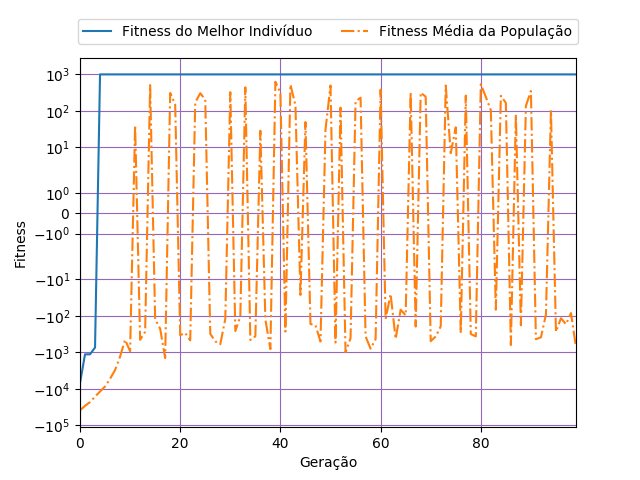
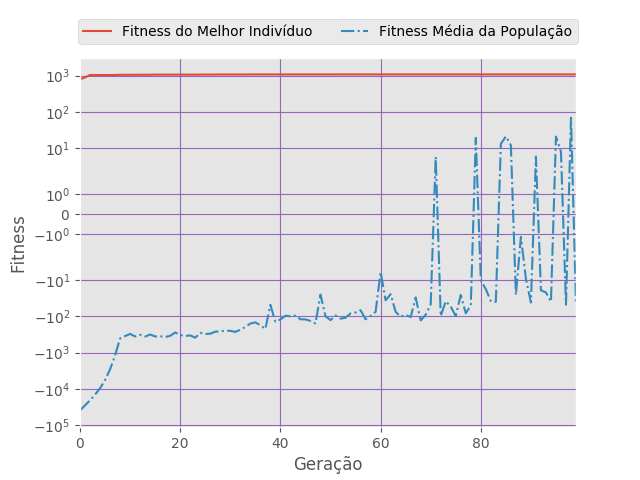
keras examples added

diff --git a/NeuralNets/ELM.py b/NeuralNets/ELM.py
@@ -3,10 +3,8 @@
 import matplotlib as mpl
 import matplotlib.pyplot as plt
 import numpy as np
-import sys
-from datasets import fish
-#função sigmoide
-sigmoid = lambda z:(np.exp(z) - np.exp(-1 * z)) / (np.exp(z) + np.exp(-1 * z))
+
+verbose = False
 erro = lambda y, d: 1/2 * sum([np.sum (i **2) for i in np.nditer(y - d)])
 
 def output(x, d, w1, w2=[]):
@@ -14,50 +12,73 @@ def output(x, d, w1, w2=[]):
 	sh[1] = sh[1] + 1
 	Xa = np.ones(sh)
 	Xa[:,:-1] = x
-	S = sigmoid(np.matmul(Xa, w1.transpose()))
+	#ativação sigmoidal
+	S = np.tanh(np.matmul(Xa, w1.transpose()))
 
 	sh = list(S.shape)
 	sh[1] = sh[1] + 1
 	Ha = np.ones(sh)
 	Ha[:,:-1] = S
 
+	#se os pesos de saída não forem fornecidos
+	#calculamos eles aqui
 	if(w2 == []):
-		w2 = np.matmul(np.matmul(np.linalg.inv(np.matmul(Ha.transpose(), Ha)), Ha.transpose()), d).transpose()
+		w2 = np.matmul(np.linalg.pinv(Ha), d).transpose()
 
+	#caso contrário, se faz propagação direta
 	Y = np.matmul(Ha, w2.transpose())
 
-	print (f'pesos da camada oculta: \n{w1}')
-	print (f'pesos da camada de saída: \n{w2}')
-	print (f'resposta da camada oculta:\n {S}')
-	print (f'resposta da camada de saída:\n {Y}')
-	print (f' O erro RMS da rede é {erro(Y, d)}\n\n')
-	return w2
+	if (verbose):
+		print (f'pesos da camada oculta: \n{w1}')
+		print (f'pesos da camada de saída: \n{w2}')
+		print (f'resposta da camada oculta:\n {S}')
+		print (f'resposta da camada de saída:\n {Y}')
+		print (f' O erro RMS da rede é {erro(Y, d)}\n\n')
+
+		plt.style.use("ggplot")
+		plt.figure()
+		plt.title(f"Sen(x), erro RMS = {erro(Y, d)}")
+		plt.plot(x, Y, "+", color="green", label="resposta da Rede")
+		plt.plot(x, d, "-.", color="red", label="Função Original")
+		plt.ylabel("Saída")
+		plt.xlabel("Entrada")
+		plt.legend()
+		plt.show()
+	return w2, Y
 
 def main():
-	'''
-	x_training = np.array(fish.alaska + fish.canada)
+	x = []
 	d = []
-	for i in fish.alaska:
-		d.append([1, 0])
-	for i in fish.canada:
-		d.append([0, 1])
-	d_training = np.array(d)
-	'''
-	x = [[0,0], [0,1],[1,0],[1,1]]
-	d = [[0,0], [1,0],[1,0],[1,1]]
-	x = np.array(x)
-	d = np.array(d)
-	P = 150
-	M = 2
-	C = 2
 
-	#w1 = np.matrix('0.53  0.86 -0.43;\
-	#			1.83  0.31  0.34;\
-	#			-2.25 -1.3  3.57')
-	w1 = np.random.rand(P,M+1)
+	linspace = np.arange(0, 10, 0.01)
 
+	for i in linspace:
+		x.append([i])
+		d.append([np.sin(i)])
+	
+	#O conjunto de testes 
+	testx = np.array(x[1::20])
+	testd = np.array(d[1::20])
 
-	w2 = output(x, d, w1)
+	#conjunto de treinamento
+	x = np.array(x[::30])
+	d = np.array(d[::30])
+
+	#número de neurônioa na camada oculta
+	P = 12000
+	M = 1
+	C = 1
+
+	#inicialiazação dos pesos
+	w1 = (np.random.rand(P,M+1) - 0.5) / 2
+
+	#obtenção dos pesos de saída
+	w2, response = output(x, d, w1)
+
+	#testes para valores não presentes no conjunto de treinamento
+	global verbose
+	verbose = True
+	output(testx, testd, w1, w2)
 
 if __name__ == "__main__":
 	main()

diff --git a/NeuralNets/cnn.py b/NeuralNets/cnn.py
@@ -1,0 +1,46 @@
+import numpy
+from keras.datasets import mnist
+from keras.models import Sequential
+from keras.layers import Dense
+from keras.layers import Dropout
+from keras.layers import Flatten
+from keras.layers.convolutional import Conv2D
+from keras.layers.convolutional import MaxPooling2D
+from keras.utils import np_utils
+from keras import backend as K
+K.set_image_dim_ordering('th')
+# load data
+(X_train, y_train), (X_test, y_test) = mnist.load_data()
+# reshape to be [samples][pixels][width][height]
+X_train = X_train.reshape(X_train.shape[0], 1, 28, 28).astype('float32')
+X_test = X_test.reshape(X_test.shape[0], 1, 28, 28).astype('float32')
+
+# normalize inputs from 0-255 to 0-1
+X_train = X_train / 255
+X_test = X_test / 255
+# one hot encode outputs
+y_train = np_utils.to_categorical(y_train)
+y_test = np_utils.to_categorical(y_test)
+num_classes = y_test.shape[1]
+
+def baseline_model():
+	# create model
+	model = Sequential()
+	model.add(Conv2D(32, (5, 5), input_shape=(1, 28, 28), activation='relu'))
+	model.add(MaxPooling2D(pool_size=(2, 2)))
+	model.add(Dropout(0.2))
+	model.add(Flatten())
+	model.add(Dense(100, activation='relu'))
+	model.add(Dense(num_classes, activation='softmax'))
+	# Compile model
+	model.compile(loss='categorical_crossentropy', optimizer='adam', metrics=['accuracy'])
+	return model
+# build the model
+model = baseline_model()
+# Fit the model
+model.fit(X_train, y_train, validation_data=(X_test, y_test), epochs=10, batch_size=200, verbose=2)
+# Final evaluation of the model
+scores = model.evaluate(X_test, y_test, verbose=0)
+print("CNN Error: %.2f%%" % (100-scores[1]*100))
+
+

diff --git a/NeuralNets/backpropagation.py b/NeuralNets/backpropagation.py
@@ -4,8 +4,6 @@ import matplotlib as mpl
 import matplotlib.style as style
 import matplotlib.pyplot as plt
 
-np.random.seed(0)
-
 sigmoid = lambda z:np.tanh(z)
 Dsigmoid = lambda z: (1/ np.cosh(z)) ** 2
 gaussian = lambda x: np.exp(-1 * x**(2)) * 2 - 1
@@ -20,12 +18,16 @@ def erro(y, d):
 
 x = []
 d = []
-linspace = np.arange(0, 1, 0.01)
+linspace = np.arange(0, 10, 0.1)
 
-x = [[0,0], [0,1],[1,0],[1,1]]
-d = [[0], [1], [1], [0]]
+#x = [[0,0], [0,1],[1,0],[1,1]]
+#d = [[0], [1], [1], [0]]
 
-P = 15
+for i in linspace:
+	x.append([i])
+	d.append([np.sin(i)])
+
+P = 12
 M = len(x[0])
 C = len(d[0])
 
@@ -86,9 +88,7 @@ for n in range(nEpocas):
             w1[c][i+1] = w1[c][i+1] - mi * delta1[c]
         Erro.append(erro(response,d))
 
-print(w1)
-print (w2)
-print(response)
+print (Erro[-1])
 
 mpl.style.use("ggplot")
 plt.figure()
@@ -97,16 +97,16 @@ plt.ylabel("MSE")
 plt.grid(True, color="#9467bd")
 plt.plot( np.arange(0, nEpocas, nEpocas / len(Erro)), Erro)
 plt.savefig("mse.png")
-'''
+
 plt.figure()
 plt.xlabel("Entrada")
 plt.ylabel("Saída")
 plt.grid(True, color="#9467bd")
 plt.plot(linspace,[i[0] for i in response], "--", label="Valor Previsto", linewidth=2)
-plt.plot(linspace, test(linspace), "-.", label="Valor Alvo", linewidth=2)
+plt.plot(linspace, np.sin(linspace), "-.", label="Valor Alvo", linewidth=2)
 plt.legend(bbox_to_anchor=(0., 1.02, 1., .102), loc='center',
        ncol=2, borderaxespad=0)
-'''
+
 
 plt.show()
 '''

diff --git a/NeuralNets/nn.py b/NeuralNets/nn.py
@@ -1,0 +1,38 @@
+import numpy
+from keras.datasets import mnist
+from keras.models import Sequential
+from keras.layers import Dense
+from keras.layers import Dropout
+from keras.utils import np_utils
+
+# fix random seed for reproducibility
+seed = 7
+numpy.random.seed(seed)
+
+(X_train, y_train), (X_test, y_test) = mnist.load_data()
+num_pixels = X_train.shape[1] * X_train.shape[2]
+X_train = X_train.reshape(X_train.shape[0], num_pixels).astype('float32')
+X_test = X_test.reshape(X_test.shape[0], num_pixels).astype('float32')
+X_train = X_train / 255
+X_test = X_test / 255
+
+y_train = np_utils.to_categorical(y_train)
+y_test = np_utils.to_categorical(y_test)
+num_classes = y_test.shape[1]
+
+# define baseline model
+def baseline_model():
+	# create model
+	model = Sequential()
+	model.add(Dense(100, input_dim=num_pixels, kernel_initializer='normal', activation='relu'))
+	model.add(Dense(num_classes, kernel_initializer='normal', activation='softmax'))
+	# Compile model
+	model.compile(loss='categorical_crossentropy', optimizer='adam', metrics=['accuracy'])
+	return model
+
+model = baseline_model()
+# Fit the model
+model.fit(X_train, y_train, validation_data=(X_test, y_test), epochs=10, batch_size=200, verbose=2)
+# Final evaluation of the model
+scores = model.evaluate(X_test, y_test, verbose=0)
+print("Baseline Error: %.2f%%" % (100-scores[1]*100))

diff --git a/NeuralNets/ELM2.py b/NeuralNets/ELM2.py
@@ -29,9 +29,9 @@ def output(x, d, w1, w2=[]):
 	Ha = np.ones(sh)
 	Ha[:,:-1] = S
 	if(w2 == []):
-		w2 = np.matmul(np.matmul(np.linalg.inv(np.matmul(Ha.transpose(), Ha)), Ha.transpose()), D_scaled).transpose()
+		w2 = np.matmul(np.linalg.pinv(Ha), D_scaled)
 
-	Y = np.matmul(Ha, w2.transpose())
+	Y = np.matmul(Ha, w2)
 
 	#reversão do scaling para cálculo do erro
 	d = scaler.inverse_transform(D_scaled)
@@ -45,9 +45,11 @@ def output(x, d, w1, w2=[]):
 
 def main():
 	#última coluna dos pesos será sempre o bias
-	w1 = np.matrix('0.53  0.86 -0.43;\
-					1.83  0.31  0.34;\
-					-2.25 -1.3  3.57')
+	#w1 = np.matrix('0.53  0.86 -0.43;\
+	#				1.83  0.31  0.34;\
+	#				-2.25 -1.3  3.57')
+	P = 30
+	w1 = np.random.rand(P, 3)
 
 	#listas de entradas e saídas
 	x_training = np.matrix(' 0.35 -1.4;\
@@ -75,6 +77,8 @@ def main():
 						 4.1 1.3')
 	
 	output(x_test, d_test, w1, w2)
+
+	print (d_test.tolist())
 
 if __name__ == "__main__":
 	main()

diff --git a/AG/knapsack.py b/AG/knapsack.py
@@ -125,7 +125,7 @@ def main():
 	pop = startPop(100)
 
 	nGerações = 100
-	taxaDeCruzamento = 0.50
+	taxaDeCruzamento = 0.5
 	taxaDeMutacao = 0.1
 
 	for i in range(nGerações):
@@ -145,7 +145,7 @@ def main():
 
 	# Plot da fitness
 	fig = Figure()
-	#style.use("ggplot")
+	style.use("ggplot")
 	FigureCanvas(fig)
 	ax = fig.add_subplot(111)
 	ax.plot(bestIndFit, label='Fitness do Melhor Indivíduo')

diff --git a/NeuralNets/fish_recon.py b/NeuralNets/fish_recon.py
@@ -26,7 +26,7 @@ def main():
 	for i in fish.canada:
 		d.append([0, 1])
 	
-	P = int(input("Número de neurônios na camada oculta: "))
+	P = 30
 	M = len(x[0])
 	C = len(d[0])
 
@@ -34,7 +34,7 @@ def main():
 	w2 = np.random.rand(C, P + 1)
 
 
-	nEpocas = int(input("Número de épocas: "))
+	nEpocas = 100
 	mi = 0.1
 	Erro = []
 	for n in range(nEpocas):
